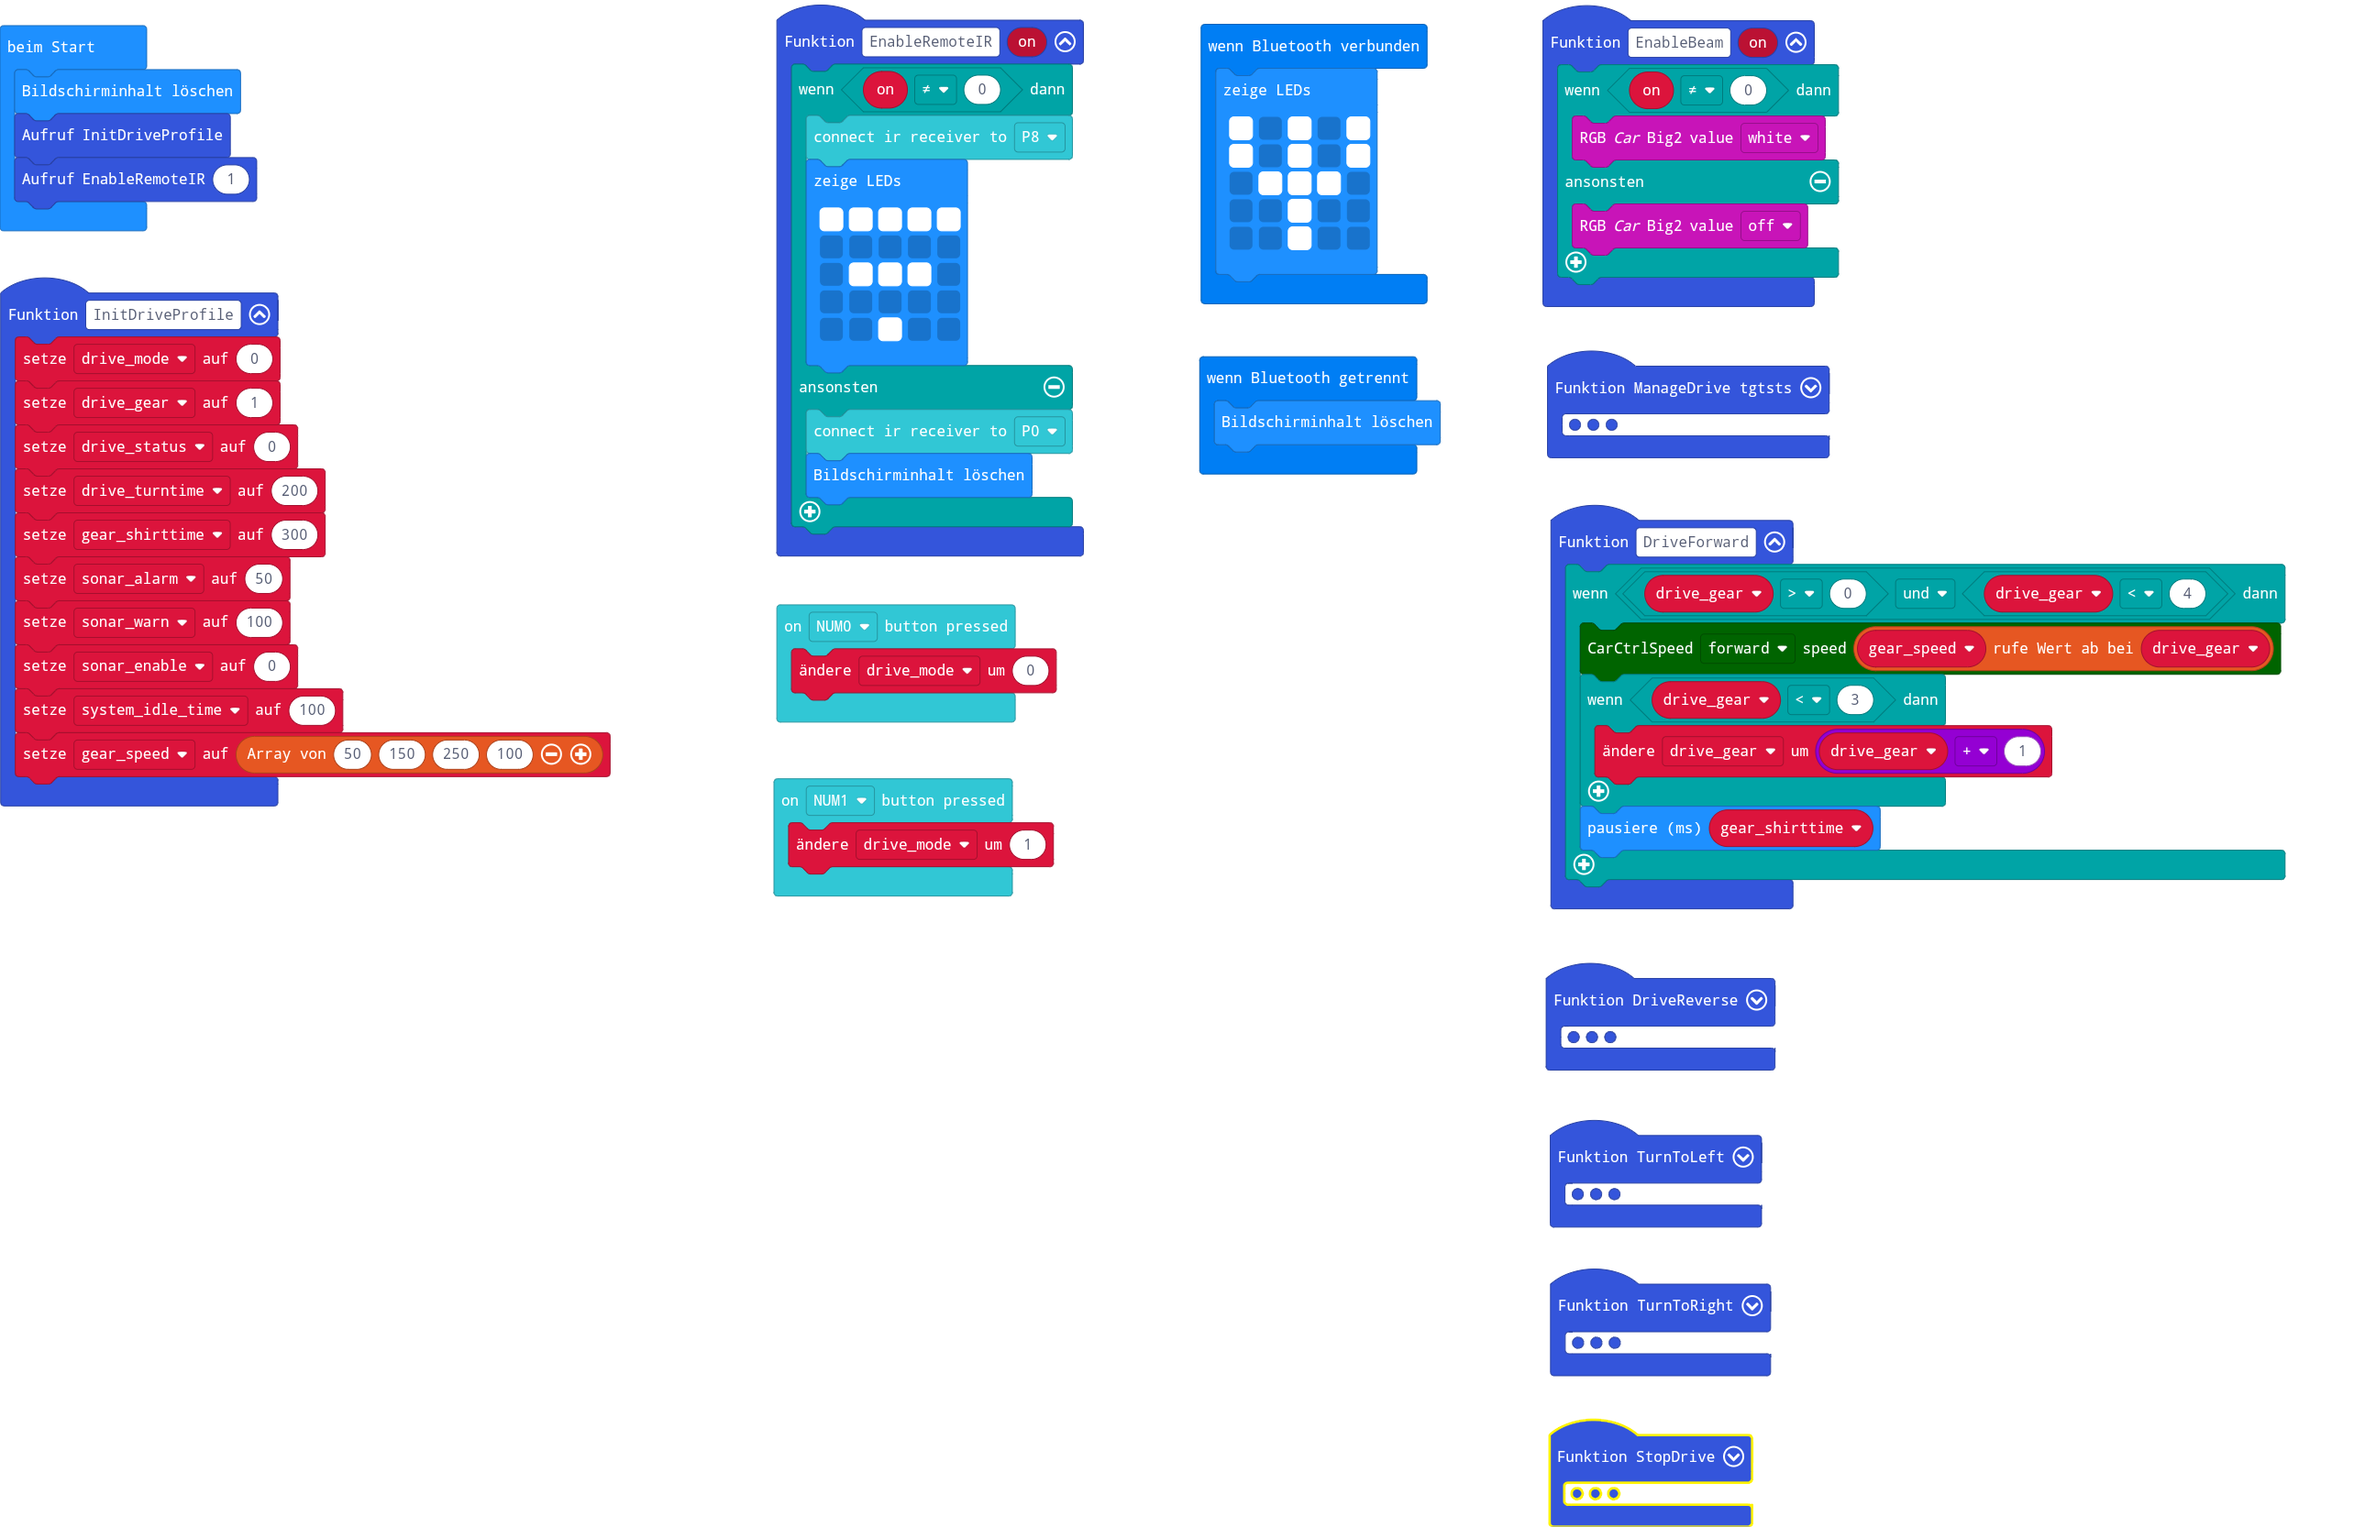
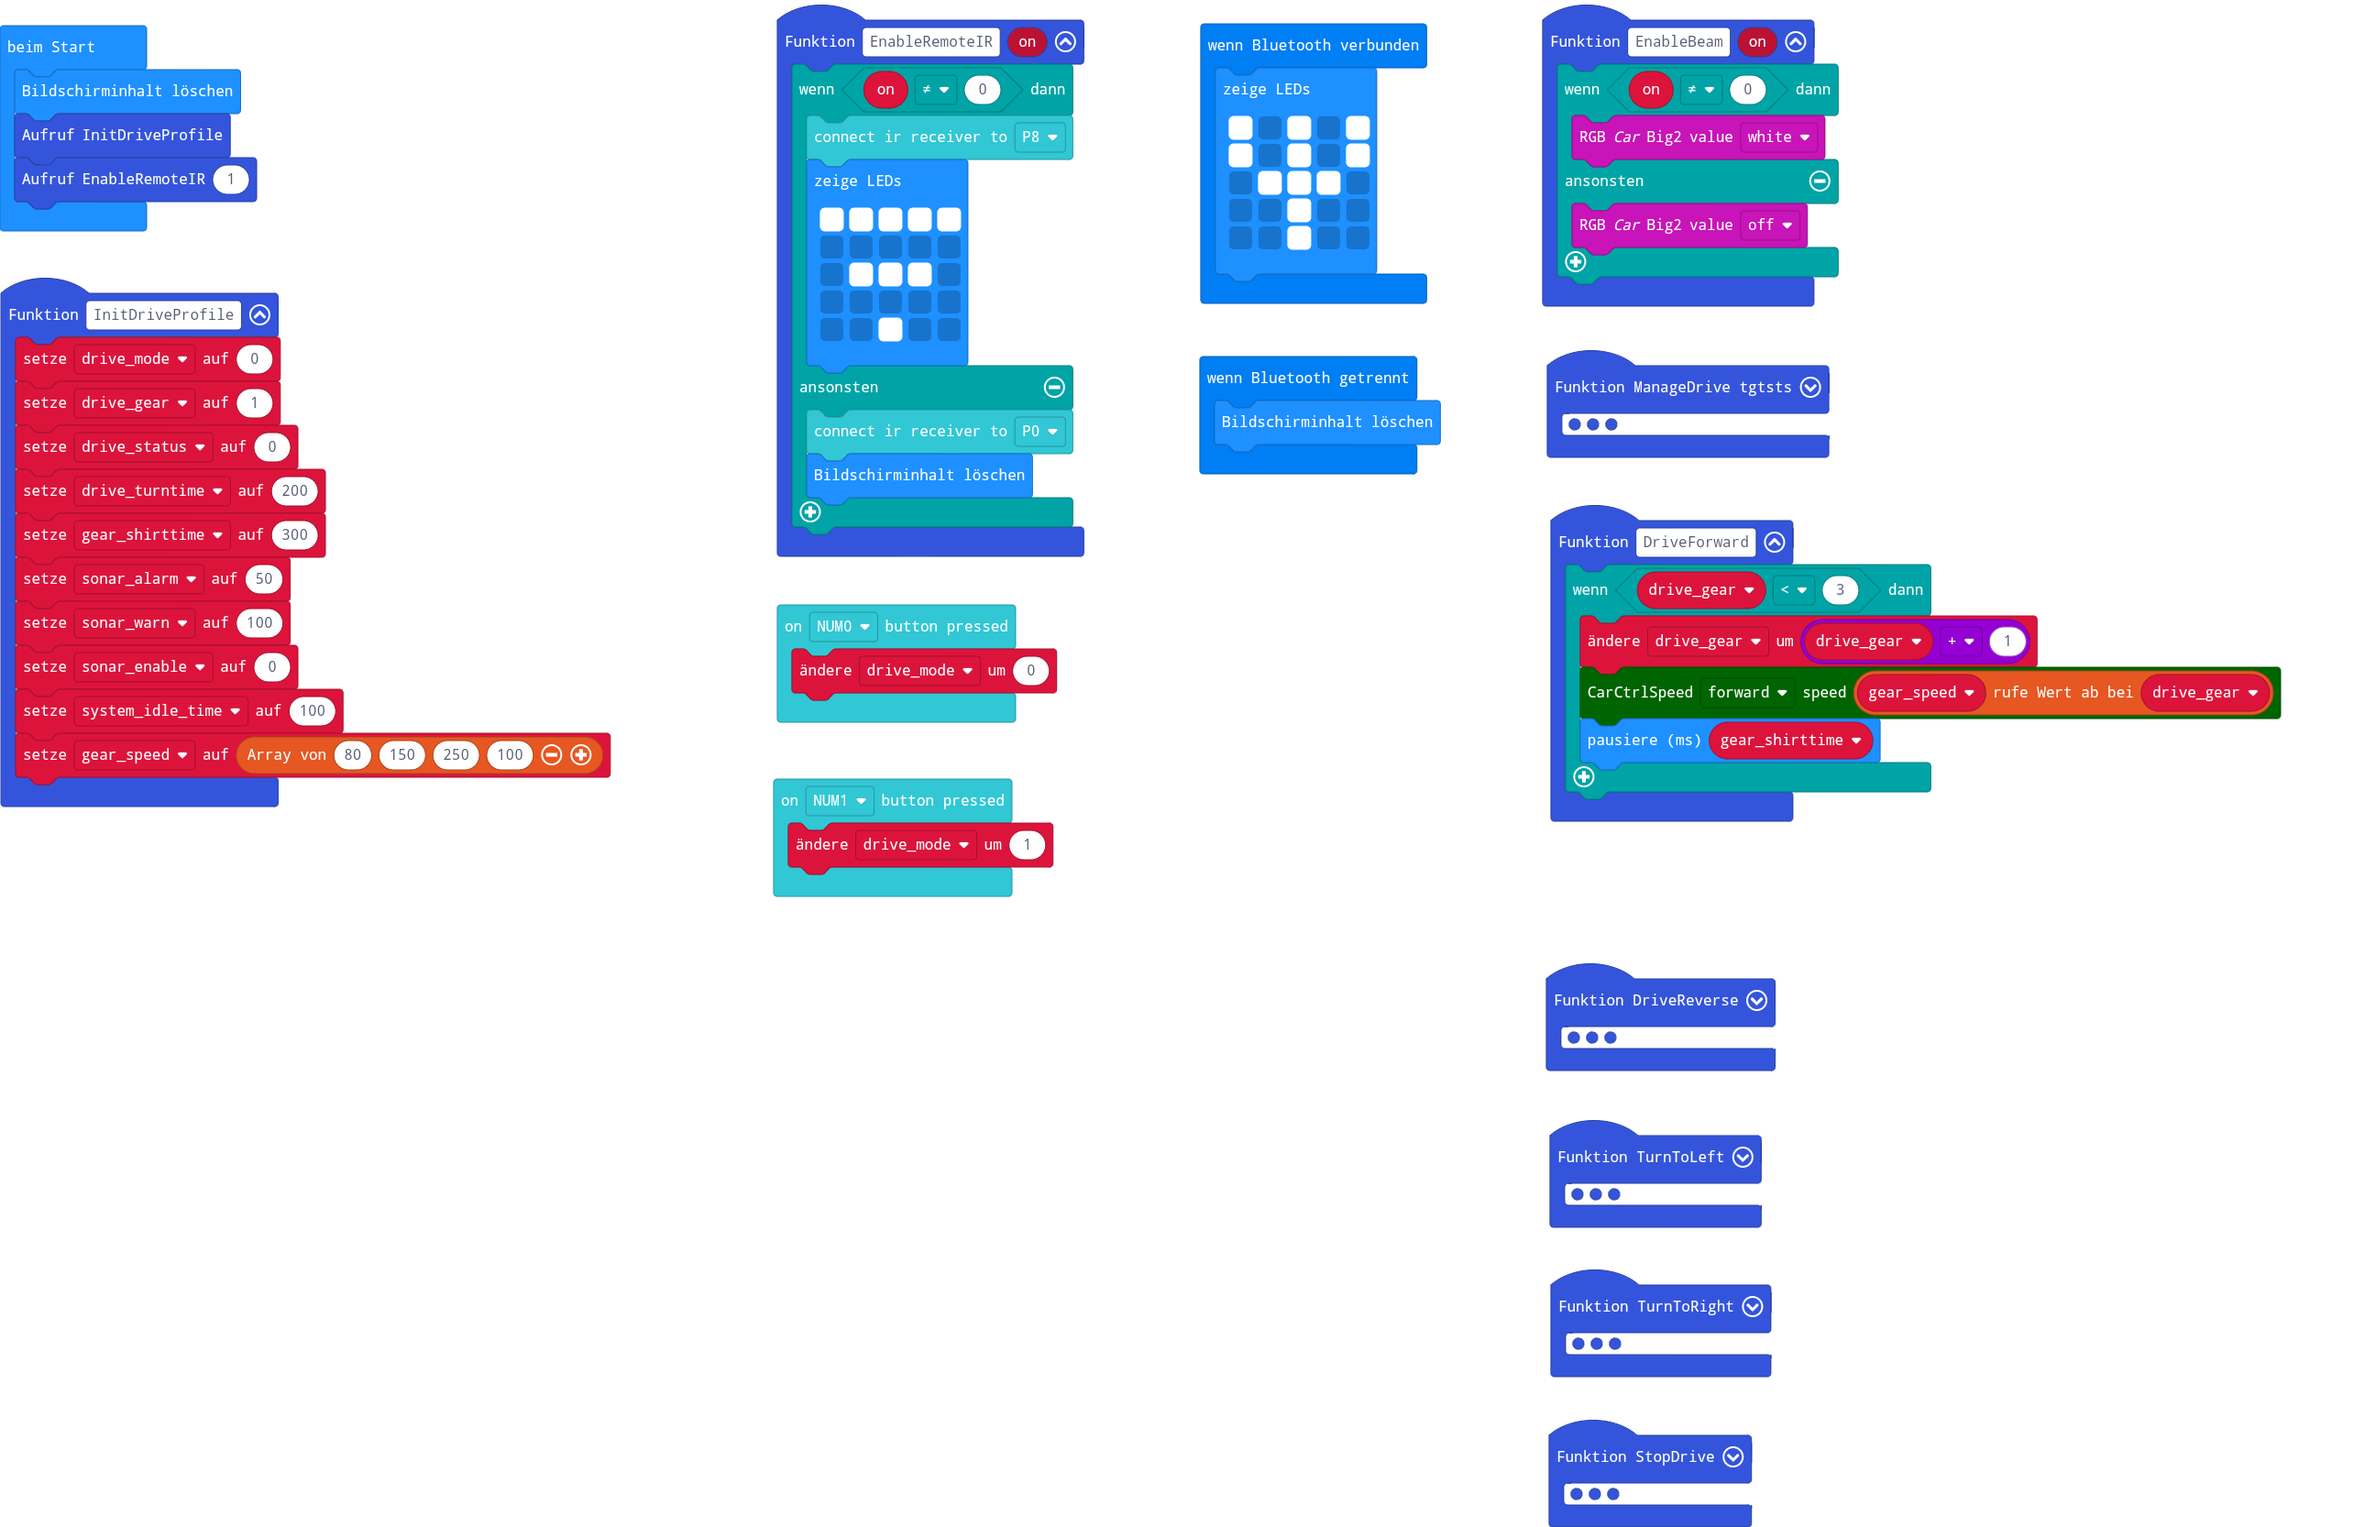
Fixed drive forward command

diff --git a/main.ts b/main.ts
@@ -8,7 +8,7 @@ function InitDriveProfile () {
     sonar_warn = 100
     sonar_enable = 0
     system_idle_time = 100
-    gear_speed = [50, 150, 250, 100]
+    gear_speed = [80, 150, 250, 100]
 }
 function EnableBeam (on: number) {
     if (on != 0) {
@@ -51,11 +51,9 @@ function EnableRemoteIR (on: number) {
     }
 }
 function DriveForward () {
-    if (drive_gear > 0 && drive_gear < 4) {
+    if (drive_gear < 3) {
+        drive_gear += drive_gear + 1
         OSOYOO_Robot.CarCtrlSpeed(OSOYOO_Robot.CarState.Car_Run, gear_speed[drive_gear])
-        if (drive_gear < 3) {
-            drive_gear += drive_gear + 1
-        }
         basic.pause(gear_shirttime)
     }
 }
